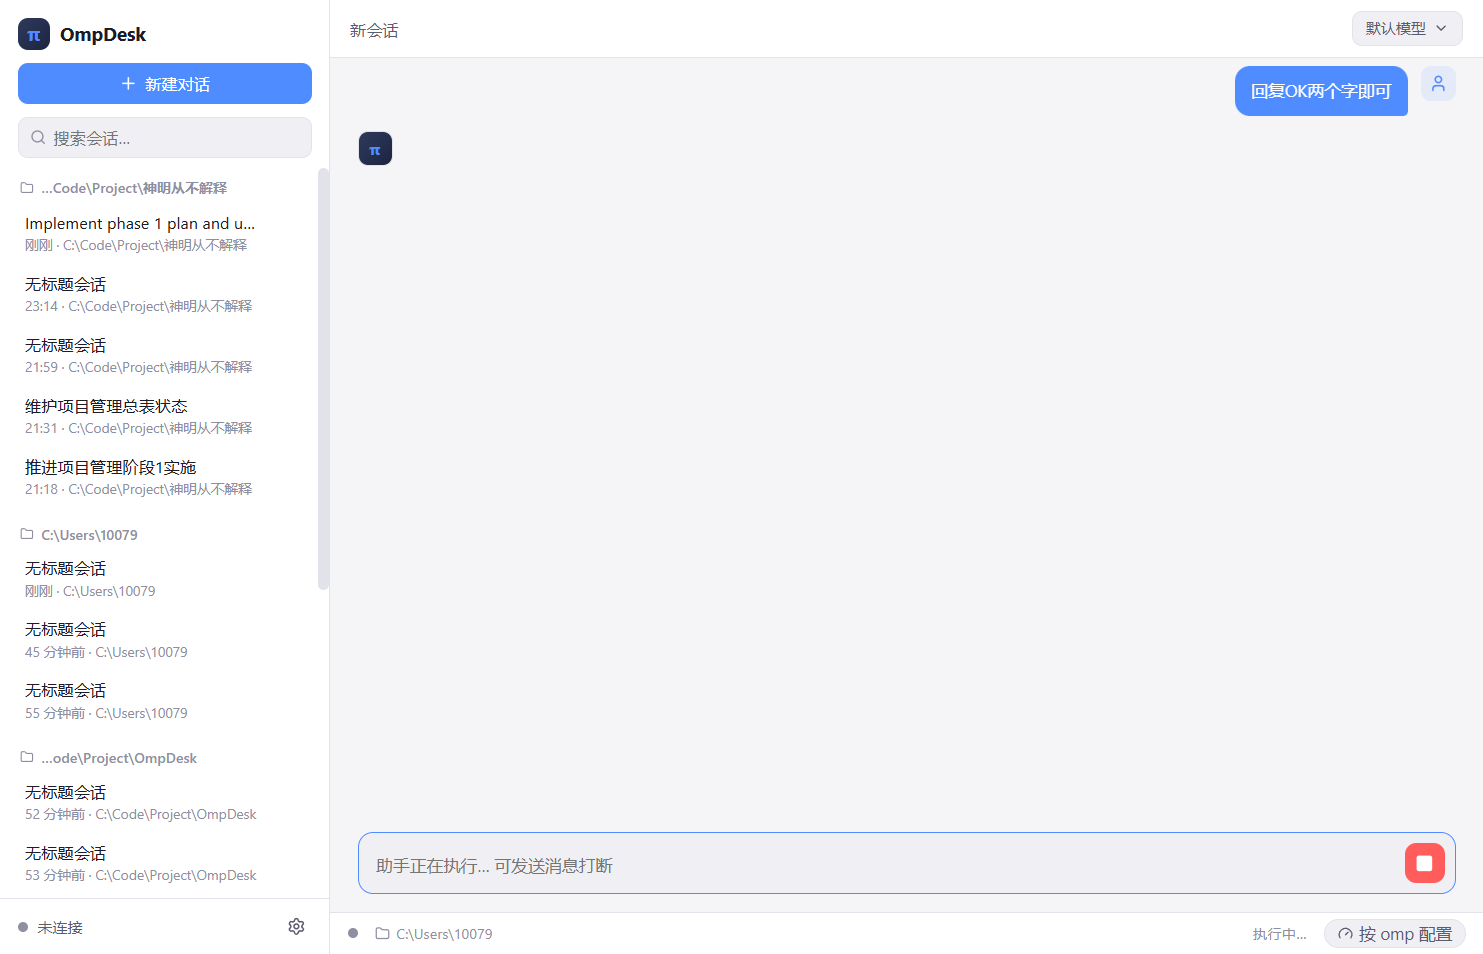
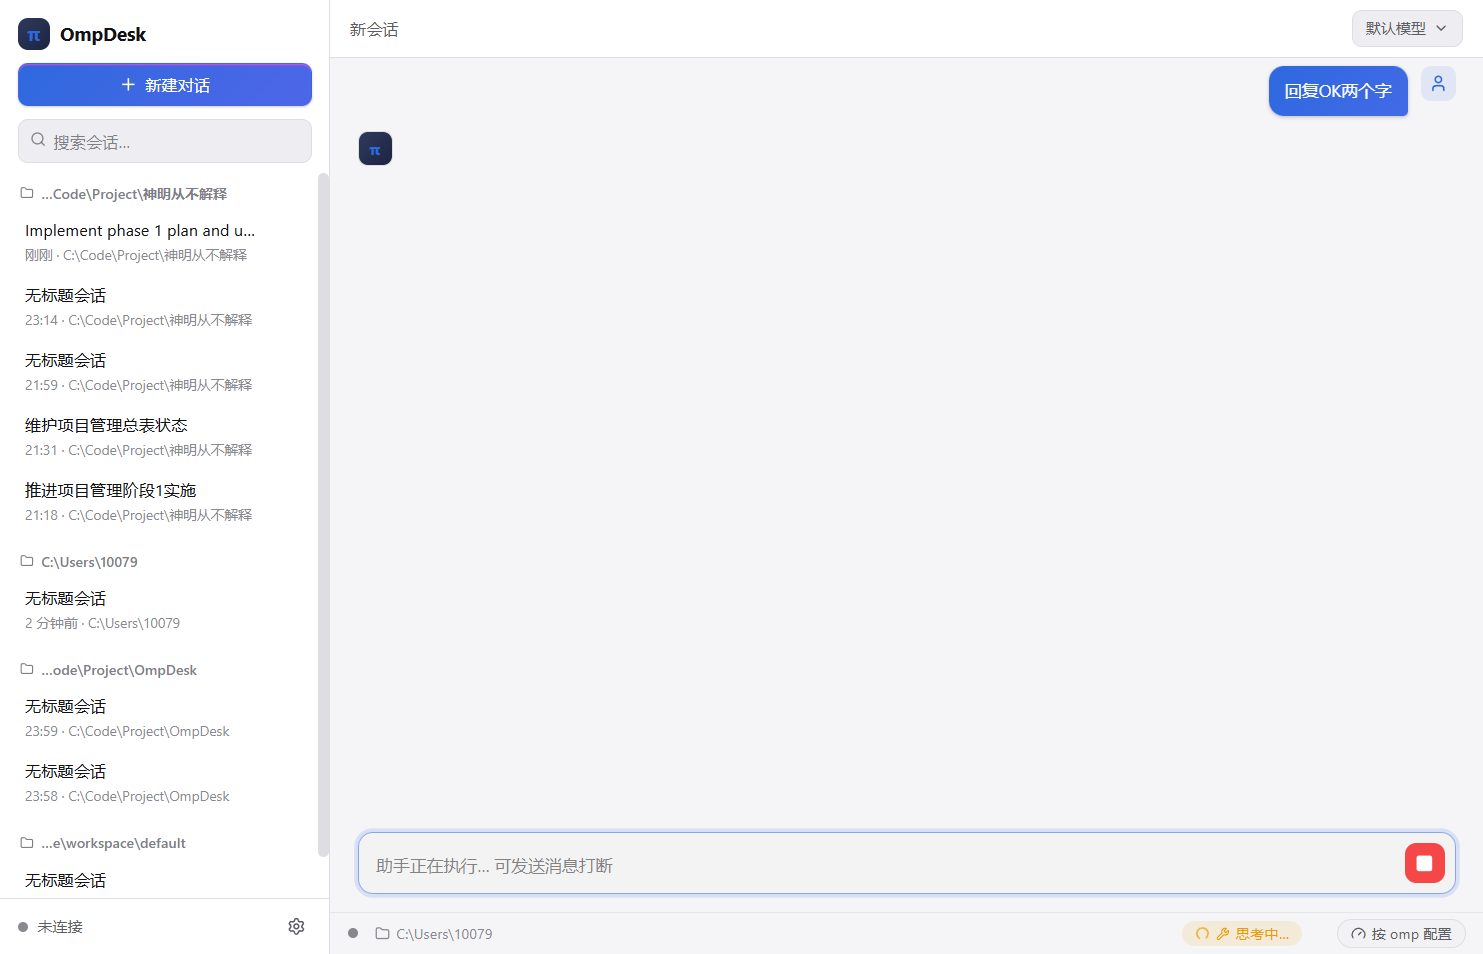
feat(ui): 视觉打磨 — 主按钮渐变光效/气泡渐变/工具卡片呼吸/侧边栏指示条/composer 聚焦光晕/状态栏弱化; Codex 视觉验收通过; 全量回归绿

diff --git a/src/styles/global.css b/src/styles/global.css
@@ -795,3 +795,128 @@ textarea { resize: none; }
 
 /* 右键菜单时强制显示操作区(Radix 定位依赖可见 trigger) */
 .session-item.ctx .session-actions { display: flex; }
+
+/* ============ v0.3 视觉打磨(Linear 克制 + Claude 亲和 + Magic UI 式光效) ============ */
+
+/* 主按钮: 渐变 + 内高光 + 悬停光晕微移 */
+.btn.primary {
+  background: linear-gradient(135deg, var(--primary), color-mix(in oklch, var(--primary) 72%, #8b5cf6));
+  box-shadow:
+    inset 0 1px 0 oklch(1 1 1 / 0.14),
+    0 1px 2px oklch(0 0 0 / 0.2);
+  transition: transform 0.15s var(--ease), box-shadow 0.2s var(--ease), filter 0.15s;
+}
+.btn.primary:hover {
+  transform: translateY(-1px);
+  box-shadow:
+    inset 0 1px 0 oklch(1 1 1 / 0.14),
+    0 4px 16px color-mix(in oklch, var(--primary) 38%, transparent);
+}
+.btn.primary:active { transform: translateY(0); }
+
+/* 新对话按钮: 微光晕呼吸 */
+.btn.new-chat { position: relative; overflow: hidden; }
+.btn.new-chat::after {
+  content: '';
+  position: absolute; inset: 0;
+  background: linear-gradient(110deg, transparent 30%, oklch(1 1 1 / 0.18) 50%, transparent 70%);
+  transform: translateX(-100%);
+  transition: transform 0.5s var(--ease);
+}
+.btn.new-chat:hover::after { transform: translateX(100%); }
+
+/* 用户气泡: 渐变 + 轻投影 */
+.bubble.user {
+  background: linear-gradient(135deg, var(--primary), color-mix(in oklch, var(--primary) 78%, #7c6cff));
+  box-shadow: 0 1px 3px oklch(0 0 0 / 0.22);
+}
+
+/* 工具卡片: 运行中边框呼吸 */
+.toolcard.running { border-color: color-mix(in oklch, var(--amber) 55%, transparent); }
+.toolcard.running .toolcard-head { background: color-mix(in oklch, var(--amber) 5%, transparent); }
+
+/* thinking 展开过渡 */
+.thinking-body { animation: fade-slide 0.18s var(--ease); }
+@keyframes fade-slide {
+  from { opacity: 0; transform: translateY(-3px); }
+  to { opacity: 1; transform: translateY(0); }
+}
+
+/* 侧边栏选中态: 左侧指示条 */
+.session-item.active::before {
+  content: '';
+  position: absolute; left: 0; top: 22%; bottom: 22%;
+  width: 2.5px; border-radius: 2px;
+  background: var(--accent);
+  box-shadow: 0 0 6px color-mix(in oklch, var(--accent) 60%, transparent);
+}
+.session-item:hover .session-title { color: var(--text); }
+
+/* Composer 聚焦光晕 */
+.composer { transition: border-color 0.15s, box-shadow 0.15s; }
+.composer:focus-within {
+  border-color: color-mix(in oklch, var(--primary) 55%, transparent);
+  box-shadow: 0 0 0 3px color-mix(in oklch, var(--primary) 14%, transparent);
+}
+
+/* 空状态 logo 光晕 */
+.empty-logo {
+  background:
+    radial-gradient(60% 60% at 50% 40%, oklch(0.35 0.12 285 / 0.9), transparent),
+    linear-gradient(135deg, #2a2a3a, #1c1c28);
+  box-shadow:
+    0 0 44px color-mix(in oklch, var(--primary) 22%, transparent),
+    0 8px 30px oklch(0 0 0 / 0.35);
+}
+
+/* 状态栏执行徽标胶囊 */
+.statusbar-item.exec {
+  background: color-mix(in oklch, var(--amber) 12%, transparent);
+  border-radius: 20px; padding: 1px 10px;
+}
+
+/* 列表行 hover 微移 */
+.list-row { transition: border-color 0.15s, background 0.15s; }
+.list-row:hover { border-color: color-mix(in oklch, var(--primary) 30%, transparent); }
+
+/* 模态入场已被 Dialog data-state 动画接管; 弹窗阴影细化 */
+.modal, .confirm-dialog {
+  box-shadow:
+    0 24px 80px oklch(0 0 0 / 0.45),
+    0 2px 8px oklch(0 0 0 / 0.2);
+}
+
+/* 无障碍: 系统偏好减弱动效时降级 */
+@media (prefers-reduced-motion: reduce) {
+  *, *::before, *::after {
+    animation-duration: 0.01ms !important;
+    transition-duration: 0.01ms !important;
+  }
+}
+
+/* ============ v0.3 精修(Codex 视觉反馈) ============ */
+
+/* 辅助文字对比度提升 */
+:root { --text-faint: color-mix(in oklch, var(--muted-foreground) 78%, transparent); }
+
+/* 状态栏弱化: 更轻层级 */
+.statusbar {
+  background: transparent;
+  border-top-color: color-mix(in oklch, var(--border) 60%, transparent);
+  min-height: 26px;
+}
+.statusbar-item.chip { background: color-mix(in oklch, var(--muted) 60%, transparent); }
+
+/* 主按钮顶部高光加强(克制) */
+.btn.primary { box-shadow: inset 0 1px 0 oklch(1 1 1 / 0.22), 0 1px 2px oklch(0 0 0 / 0.2); }
+
+/* Composer 背景与边框更柔和 */
+.composer { background: color-mix(in oklch, var(--muted) 55%, transparent); }
+
+/* 空状态: 收紧留白, 最近会话上移 */
+.empty-state { gap: 10px; }
+.empty-recents { margin-top: 18px; }
+.empty-hint { margin-top: 18px; }
+
+/* 侧边栏分组标题弱化但可读 */
+.session-group-title { color: color-mix(in oklch, var(--muted-foreground) 85%, transparent); }

diff --git a/.zcode/plans/plan-sess_814fa6e4-30ab-4804-839a-db30f35b9545.md b/.zcode/plans/plan-sess_814fa6e4-30ab-4804-839a-db30f35b9545.md
@@ -1,0 +1,84 @@
+# OmpDesk 差异化改造计划(对标 pi-desktop / Codex 桌面端)
+
+## 定位与目标
+把 OmpDesk 从"单 agent 聊天 GUI"升级为**深度 Agent 工作台**:多语言、桌面级菜单与设置、产出可视化(文件面板)、过程透明化(token 汇总)、双后端(omp + pi)。参照对象:pi-desktop(文件面板/会话体验)、OpenAI Codex 桌面端(菜单/设置结构/快捷键)、Claude Desktop(对话深度)。
+
+**实施前提(重要):等待 `sess_d7476a8c`(UI 迁移会话)全部完成并提交后再开工** —— 重叠文件多(SettingsModal / Sidebar / Composer / MessageBubble / store.ts / global.css),双会话并发会互相覆盖。开工第一步用 codex-vision.sh 精读你的 5 张 Codex 截图(已找到 1 张 `Downloads/1781628871703.png`,其余 4 张需你提供路径或重发),对齐菜单/设置细节。
+
+---
+
+## 阶段 0:i18n 多语言基础设施(zh-CN / en-US / ja-JP,架构可扩展)
+
+**方案:轻量自研 t()**(与项目自研风格一致,零新依赖;i18next 太重,项目仅 ~288 行文案)。
+
+- 新建 `src/i18n/`:`index.ts`(t(key, params)、locale 订阅、插值)、`locales/zh-CN.json`、`en-US.json`、`ja-JP.json`
+- 抽取全部硬编码文案(23 文件 ~288 行中文:SettingsModal 77 行、store.ts 37 行、Sidebar 22 行、AskCard/ToolCard/StatusBar/Composer/EmptyState 等)
+- 本地化 `lib/format.ts:8-17` 相对时间(刚刚/N 分钟前/昨天/…)
+- `AppSettings`(types.ts:140)加 `locale` 字段 + DEFAULT_SETTINGS(config.ts:16)+ SettingsModal 外观组加语言选择 + store 加 locale 状态
+- 主进程 notice 文案:`MainEvent['notice']`(types.ts:230)加可选 `i18nKey`,渲染端翻译;omp 外部内容(ui:request、updater)标记不可翻译
+- 验证:`npm run typecheck` + e2e-settings 回归(切语言后文案变化)
+
+## 阶段 1:应用菜单栏 + 设置结构改造(参照 Codex)
+
+**应用菜单**(`Menu.buildFromTemplate`,当前 index.ts 无 setApplicationMenu,`autoHideMenuBar: true` 在 index.ts:149):
+- 文件:新建会话 Cmd+N、打开项目(选工作目录)、导出会话、退出
+- 编辑:标准 undo/redo/cut/copy/paste(保输入框快捷键)
+- 视图:切换主题、侧边栏 Cmd+B、文件面板、缩放、全屏
+- 窗口:最小化/切换;帮助:检查更新、查看日志、关于
+- 设置入口 **Cmd+,**(Codex 惯例);Windows/Linux 保持 autoHide(Alt 唤出),macOS 原生菜单栏;菜单文案走 i18n,切语言重建
+
+**设置结构改造**(SettingsModal TABS `:163-169` 五组 → Codex 风格分组):
+| OmpDesk 新分组 | 内容(来自现有组) |
+|---|---|
+| 常规 | 语言(i18n)、托盘行为 |
+| 外观 | 主题、字体缩放(现有) |
+| 模型 | 审批模式、配置方案(现有 models) |
+| 集成 | MCP(现有)、Skills(现有) |
+| 数据 | 默认工作目录、omp 路径、会话进程、日志(现有 data) |
+| 用量(新) | token 汇总(阶段 3 联动) |
+| 后端(新) | agent 后端 omp/pi(阶段 4 联动) |
+| 关于 | 版本、检查更新 |
+
+验证:e2e-settings 回归(选择器同步)。
+
+## 阶段 2:文件面板(参照 pi-desktop Explorer + Codex 右栏)
+
+**参照成熟产品的最佳实践:文件树 + 会话相关文件 + 多标签页 + 只读语法高亮预览 + 元信息 + 打开外部编辑器/下载 + 可拖宽**。
+
+- UI:`App.tsx:101-107` `.content-row` 加第三个子元素 FilePanel(范式照 `.todo-panel` global.css:512);新组件 `FilePanel.tsx`;标签页 + highlight.js 高亮(已有依赖)
+- 数据:`OmpApi` 新增 `listFiles/readFile`(types.ts:256 + preload/index.ts + ipc.ts 三处,渲染端无 fs 访问)
+- 会话文件索引:静态 —— `sessions.ts:139-162` 解析 toolCall args/result 时提取文件路径;实时 —— 拦截 `tool_execution_*` 帧
+- 验证:新 `scripts/e2e-files.mjs`(会话 → 面板出现 agent 写过的文件 → 预览高亮 → 标签切换)
+
+## 阶段 3:过程透明化(token 汇总为主)
+
+- `MessageBubble.tsx:123-133` `.msg-meta` 扩展:cache tokens(omp 帧有则显)+ 时间;会话级汇总
+- 主进程拦截 `agent_end` 帧累加 input/output,新增 `getUsageStats` IPC;SettingsModal"用量"组展示会话/总用量
+- 过程摘要折叠行:assistant 消息上方"过程详情 · N 条消息 · M 次工具调用"(数据来自 DisplayMessage.toolCalls)
+- StatusBar 顶栏加当前会话 token 胶囊
+- 验证:e2e 断言统计行存在;不做费用估算(已确认)
+
+## 阶段 4:双后端 omp + pi(同源,协议已实测 9 命令中 8 个原生支持)
+
+- 主进程抽 `BackendAdapter`:`{ locate, spawnArgs, agentDir, sessionDir, commandMap }`
+- `locate.ts:10-40` 扩展 pi 候选;`agentDir()`(`locate.ts:51-60`)参数化;`--session-dir` 接通(pool.ts:5 已预留,index.ts:102-120 补传参)
+- 映射:`--mode rpc-ui`→`--mode rpc`、`abort_and_prompt` 拆 `abort`+`prompt`、v2 协商探测式跳过、`~/.omp/logs`(index.ts:292)跟随切换;config/mcp/skills 已走 agentDir() 自动跟随
+- Settings"后端"组切换 → `pool.restartAll()`(profiles.ts:104 已有范式)
+- 验证:装 pi CLI → `npm run smoke` + e2e 回归;协议探测单测
+
+---
+
+## 发版计划(遵循 AGENTS.md)
+- 每阶段独立 commit + push(小更新不 tag);阶段 0+1 完成后发 **v0.4.0**(用户可见大功能:多语言 + 菜单 + 设置),阶段 2/3/4 视节奏合并或分别发 v0.5.0 / v0.6.0
+- 每阶段 CHANGELOG 登记 `[Unreleased]`,发版时移出
+
+## 顺序与工期
+```
+阶段0 i18n(1-2天)→ 阶段1 菜单/设置(1-2天)→ 阶段2 文件面板(2-3天)→ 阶段3 透明化(1天)→ 阶段4 双后端(2-3天)
+```
+阶段 2/3 依赖 0;阶段 4 与渲染端冲突最小可并行穿插。总工期约 7-11 天。
+
+## 风险
+1. 4 张截图未落盘 —— 实施时需你提供路径或重发
+2. pi 的 `--mode rpc` 参数名/协商细节需装 pi 实测(已确认同源,风险低)
+3. 迁移会话未提交前不开工(冲突风险)

diff --git a/README.md b/README.md
@@ -147,3 +147,9 @@ Step-by-step instructions, verification checklist and troubleshooting: **[RELEAS
 ## License
 
 MIT — © amiliyaai
+
+## UI/UX(v0.3)
+
+- **设计系统**:Tailwind v4 + shadcn 风格 token(融合 Linear 克制布局与 Claude 暖中性亲和),深浅双主题
+- **组件**:Radix 原语(Dialog / DropdownMenu / Popover / Select / Switch)+ sonner toast + 定制样式
+- **克制动效**:按钮渐变光效、输入聚焦光晕、工具卡片呼吸边框、thinking 展开过渡、弹窗入场动画;遵循 `prefers-reduced-motion` 降级
